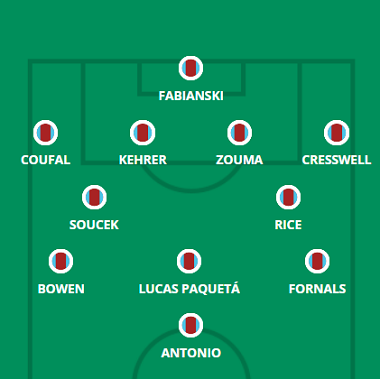
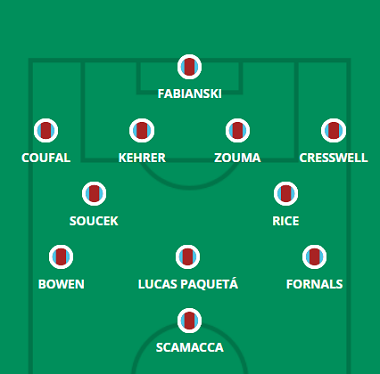
west ham e wolves

diff --git a/wolves.html b/wolves.html
@@ -68,7 +68,7 @@
             <hgroup>
                 <h1> Provável Escalação</h1>
                 <h2 class="direita"> por FabioVascão </h2>
-                <h3 class="direita"> Atualizado em 29/Setembro/2022 </h3>
+                <h3 class="direita"> Atualizado em 30/Setembro/2022 </h3>
             </hgroup>
     
             <h2 class="time"> <img src="_fotos/_logos/logowolves.png" />Wolverhampton</h2>
@@ -77,8 +77,8 @@
                     <img src="_fotos/_dinamicas/wolves.png" />
                 </figure>
             </aside>
-                <div class="escalacao"><h2 class="titulo">Ultimas Notícias</h2> <h4><p>Mais informações em breve.</p></h4><br>
-                    <h4><strong>Jogadores fora da próxima partida:</strong> Raúl Jiménez, Kalajdzic e Chiquinho</h4><br><br>
+                <div class="escalacao"><h2 class="titulo">Ultimas Notícias</h2> <h4><p>Com Hwang Hee-chan retornando do serviço internacional com a Coreia do Sul lesionado e se juntando a Sasa Kalajdzic (lesão no joelho) e Raul Jimenez (lesão na virilha) à margem, Bruno Lage está perdendo outra opção de linha de frente antes da viagem ao West Ham. O Wolves pode, é claro, agora chamar Diego Costa, que "treinou muito bem" durante o intervalo internacional de acordo com seu novo chefe, mas o fato de ele não jogar competitivamente desde 2021 significa que um começo ainda não é garantido. Lage disse mesmo no presser desta sexta-feira que Costa "passou muito tempo sem jogar, muito tempo sem treinar, e o ritmo da Premier League está a outro nível", pelo que poderá ser Gonçalo Guedes ou Daniel Podence novamente a liderar a linha de Leste de Londres. Quem substitui o suspenso Nathan Collins é a outra decisão principal do técnico dos Wolves nesta semana, com Yerson Mosquera e Toti como substitutos naturais, ainda que inexperientes. Os comentários de Lage sobre as pré-temporadas interrompidas da dupla e os recentes problemas de condicionamento físico não são um bom presságio, no entanto, e o fato de ele ter mencionado Jonny como uma alternativa no zagueiro pode ter sido revelador. Até Ruben Neves é uma possibilidade na retaguarda, depois de o médio português ter terminado a 8ª jornada nessa posição após a expulsão de Collins. Boubacar Traore é uma opção no meio-campo se Neves for remanejado, enquanto o homônimo Adama Traore está em forma novamente e estará no elenco neste fim de semana.</p></h4><br>
+                    <h4><strong>Jogadores fora da próxima partida:</strong> Hwang Hee-Chan, Raúl Jiménez, Kalajdzic e Chiquinho</h4><br><br>
                     <h4><strong>Jogadores dúvidas:</strong> Diego Costa</h4>
                 </div> 
         </header>

diff --git a/westham.html b/westham.html
@@ -68,7 +68,7 @@
             <hgroup>
                 <h1> Provável Escalação</h1>
                 <h2 class="direita"> por FabioVascão </h2>
-                <h3 class="direita"> Atualizado em 29/Setembro/2022 </h3>
+                <h3 class="direita"> Atualizado em 30/Setembro/2022 </h3>
             </hgroup>
     
             <h2 class="time"> <img src="_fotos/_logos/logowestham.png" />West Ham</h2>
@@ -77,9 +77,9 @@
                     <img src="_fotos/_dinamicas/westham.png" />
                 </figure>
             </aside>
-                <div class="escalacao"><h2 class="titulo">Ultimas Notícias</h2> <h4><p>Mais informações em breve.</p></h4><br>
-                    <h4><strong>Jogadores fora da próxima partida:</strong> Aguerd e Johnson</h4><br><br>
-                    <h4><strong>Jogadores dúvidas:</strong> </h4>
+                <div class="escalacao"><h2 class="titulo">Ultimas Notícias</h2> <h4><p>David Moyes não relatou nenhuma preocupação séria afetando seus retornos internacionais, enquanto até mesmo a dupla de fora dos gramados Nayef Aguerd (lesão no tornozelo) e Ben Johnson (lesão na coxa) voltou à grama de alguma forma na última quinzena - o último teve uma semana e metade do treinamento, então está se aproximando de um retorno. Moyes tem que responder a uma exibição ruim na derrota por 1 a 0 para o Everton há duas semanas, mas sendo um tipo teimoso, não espere uma série de mudanças para agradar aos fãs para resolver a falta de gols em particular. Uma alteração pode fazer com que Gianluca Scamacca seja chamado de volta ao topo, com Michail Antonio retornando tarde a essas costas depois de jogar pela sua seleção do outro lado do Atlântico nas primeiras horas da manhã de quarta-feira. Pablo Fornals, Tomas Soucek e Jarrod Bowen permanecem como titulares sempre presentes na liga, apesar da forma decepcionante dos dois últimos em particular, com Maxwel Cornet esperando em vão por sua primeira partida na primeira divisão para os Hammers e Said Benrahma aparentemente empurrado ainda mais para baixo. a hierarquia da chegada de Lucas Paquetá. Emerson Palmieri, Angelo Ogbonna e Craig Dawson são reservas na retaguarda, caso sejam necessárias mudanças, com as atuações de Thilo Kehrer pela Alemanha como lateral-direito um lembrete para Moyes de que ele tem uma alternativa a Vladimir Coufal, mesmo que Johnson não esteja totalmente recuperado.</p></h4><br>
+                    <h4><strong>Jogadores fora da próxima partida:</strong> Aguerd </h4><br><br>
+                    <h4><strong>Jogadores dúvidas:</strong> Johnson (Ben) </h4>
                 </div> 
         </header>
         </article>
